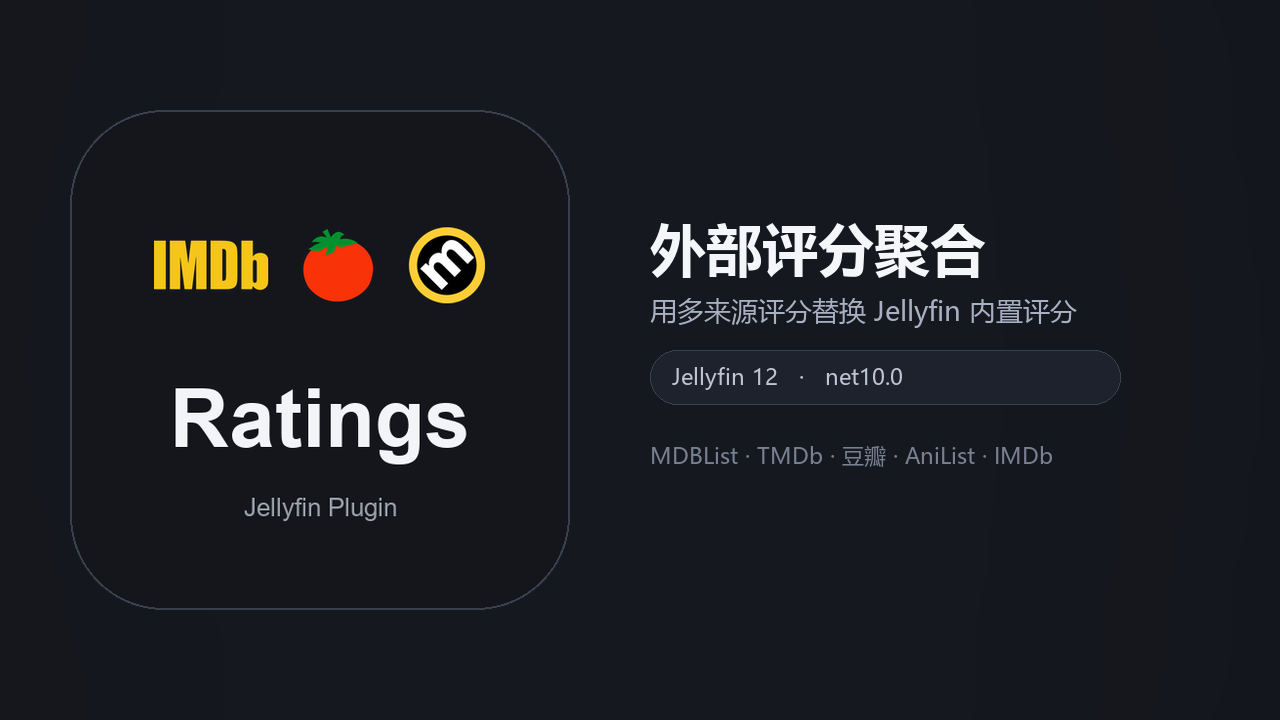
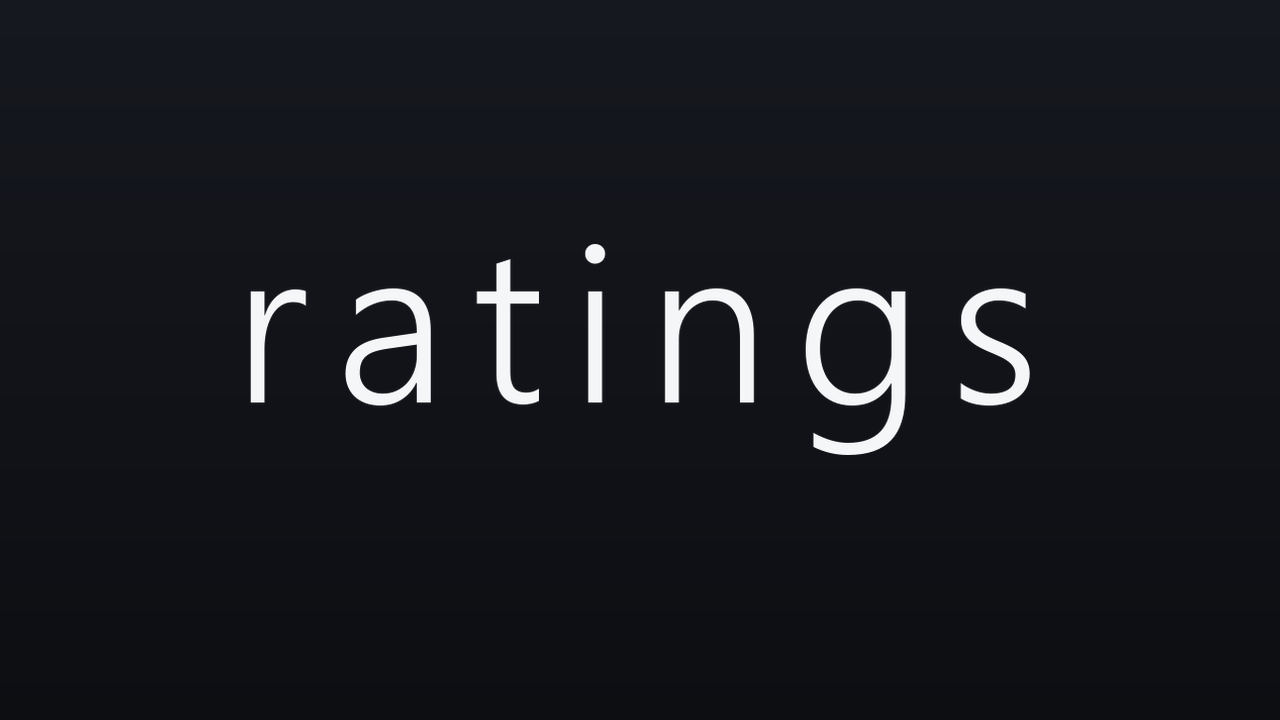
design: 插件图标改为纯字母 wordmark（ratings）
- 1280x720 深色渐变底 + 居中 "ratings"，去掉中文副标题与胶囊标签
- Segoe UI Semilight + 宽字距；320px 卡片尺寸下实测仍清晰
- 新增 scripts/make_icon.py，排版参数（字距/占宽/字重）可复现可调

diff --git a/scripts/make_icon.py b/scripts/make_icon.py
@@ -1,0 +1,127 @@
+#!/usr/bin/env python3
+"""生成插件目录图标 assets/icon.png。
+
+1280x720（16:9，与 manifest.json 的 imageUrl 显示比例一致），
+纯字母 wordmark：深色渐变底 + 居中 "ratings"，无任何图形元素。
+
+用法：
+    python scripts/make_icon.py            # 写入 assets/icon.png
+    python scripts/make_icon.py --preview  # 额外输出插件卡片实际尺寸预览
+
+依赖：Pillow
+"""
+
+from __future__ import annotations
+
+import argparse
+import os
+import sys
+
+from PIL import Image, ImageDraw, ImageFont
+
+WIDTH, HEIGHT = 1280, 720
+TEXT = "ratings"
+
+# 排版参数：字重偏细 + 宽字距，读起来像 wordmark 而不是标题
+TRACKING_EM = 0.12   # 字距（相对字号）
+TEXT_WIDTH = 780     # 文字横向占宽，约 61% —— 四周留白足够
+LIFT = 10            # 垂直上移。g 有下伸部，按外接框居中会让视觉重心偏低
+
+BG_TOP = (22, 24, 31)
+BG_BOTTOM = (12, 14, 18)
+INK = (245, 246, 248)
+
+FONT_CANDIDATES = (
+    "C:/Windows/Fonts/segoeuisl.ttf",                      # Segoe UI Semilight
+    "C:/Windows/Fonts/seguisb.ttf",                        # 兜底：Semibold
+    "/usr/share/fonts/truetype/dejavu/DejaVuSans-ExtraLight.ttf",
+    "/usr/share/fonts/truetype/dejavu/DejaVuSans.ttf",
+    "/System/Library/Fonts/Supplemental/Avenir Next.ttc",
+    "/System/Library/Fonts/Supplemental/Arial.ttf",
+)
+
+
+def pick_font() -> str:
+    for path in FONT_CANDIDATES:
+        if os.path.exists(path):
+            return path
+    raise SystemExit("找不到可用字体，请修改 FONT_CANDIDATES")
+
+
+def build_background() -> Image.Image:
+    """竖直方向极淡渐变，避免纯色底的死板感。"""
+    strip = Image.new("RGB", (1, HEIGHT))
+    for y in range(HEIGHT):
+        t = y / (HEIGHT - 1)
+        strip.putpixel(
+            (0, y),
+            tuple(round(BG_TOP[i] + (BG_BOTTOM[i] - BG_TOP[i]) * t) for i in range(3)),
+        )
+    return strip.resize((WIDTH, HEIGHT), Image.BILINEAR)
+
+
+def draw_tracked(text: str, font: ImageFont.FreeTypeFont, tracking: float, color, pad: int) -> Image.Image:
+    """PIL 没有原生 letter-spacing，逐字符绘制并累加宽度。"""
+    probe = ImageDraw.Draw(Image.new("RGBA", (8, 8)))
+    total = sum(probe.textlength(ch, font=font) for ch in text) + tracking * (len(text) - 1)
+    ascent, descent = font.getmetrics()
+
+    canvas = Image.new("RGBA", (int(total) + pad * 2, ascent + descent + pad * 2), (0, 0, 0, 0))
+    draw = ImageDraw.Draw(canvas)
+    x = pad
+    for ch in text:
+        draw.text((x, pad), ch, font=font, fill=color)
+        x += probe.textlength(ch, font=font) + tracking
+    return canvas
+
+
+def render(out_path: str) -> None:
+    font_path = pick_font()
+
+    # 先用大字号绘制再等比缩放，边缘比直接按目标字号渲染更干净
+    probe_size = 220
+    font = ImageFont.truetype(font_path, probe_size)
+    ink = draw_tracked(TEXT, font, probe_size * TRACKING_EM, INK, pad=60)
+
+    ink = ink.crop(ink.getbbox())
+    ink = ink.resize(
+        (TEXT_WIDTH, max(1, round(ink.height * TEXT_WIDTH / ink.width))),
+        Image.LANCZOS,
+    )
+
+    canvas = build_background().convert("RGBA")
+    canvas.alpha_composite(
+        ink,
+        ((WIDTH - ink.width) // 2, (HEIGHT - ink.height) // 2 - LIFT),
+    )
+    canvas.convert("RGB").save(out_path, optimize=True)
+
+    print(f"wrote {out_path} ({WIDTH}x{HEIGHT}, font={os.path.basename(font_path)}, ink={ink.size})")
+
+
+def write_preview(icon_path: str) -> None:
+    """插件目录卡片上的实际显示尺寸，用来检查小图可读性。输出到 dist/，不进仓库。"""
+    dist_dir = os.path.join(os.path.dirname(os.path.dirname(os.path.abspath(__file__))), "dist")
+    os.makedirs(dist_dir, exist_ok=True)
+    preview_path = os.path.join(dist_dir, "icon_preview.png")
+    Image.open(icon_path).resize((320, 180), Image.LANCZOS).save(preview_path, optimize=True)
+    print(f"wrote {preview_path} (320x180)")
+
+
+def main() -> None:
+    parser = argparse.ArgumentParser(description="生成插件目录图标")
+    parser.add_argument(
+        "--out",
+        default=os.path.join(os.path.dirname(os.path.dirname(os.path.abspath(__file__))), "assets", "icon.png"),
+        help="输出路径，默认 assets/icon.png",
+    )
+    parser.add_argument("--preview", action="store_true", help="额外输出 320x180 预览图")
+    args = parser.parse_args()
+
+    render(args.out)
+    if args.preview:
+        write_preview(args.out)
+
+
+if __name__ == "__main__":
+    sys.exit(main())
